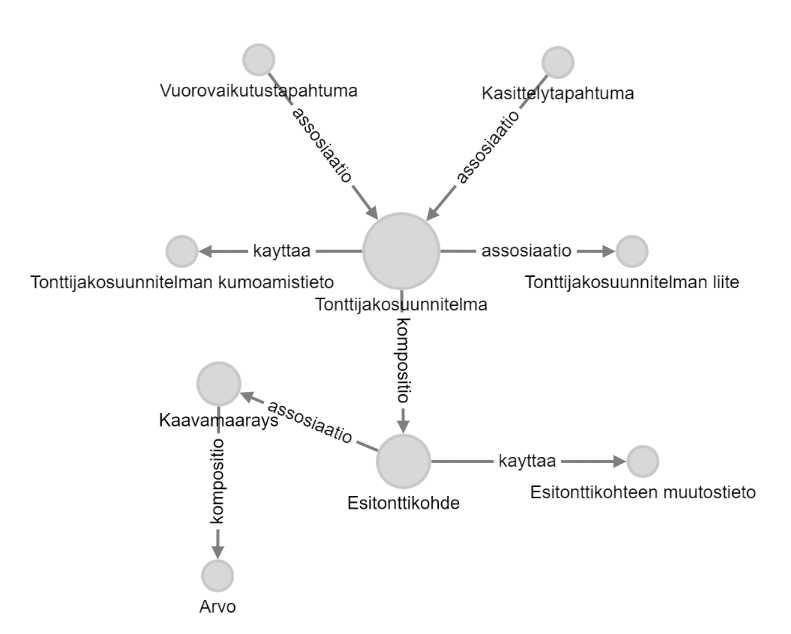
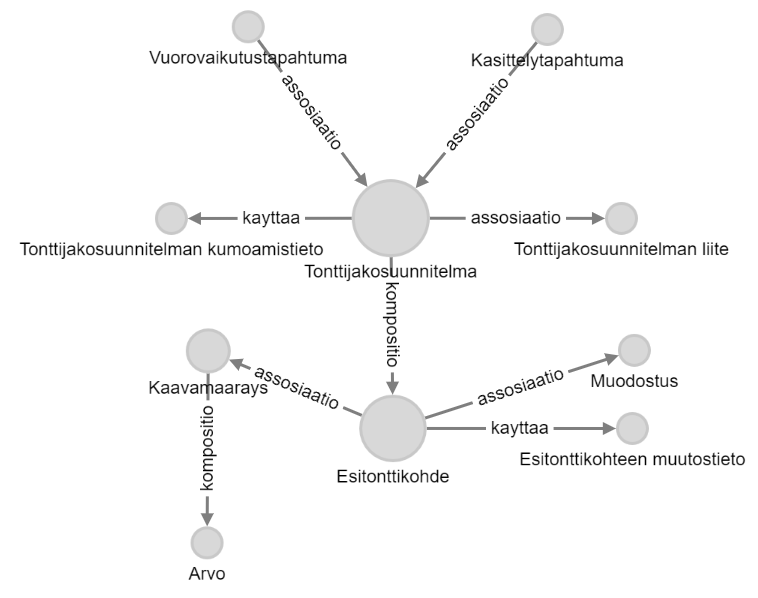
Muutoksia projektiimiin ja käsitemallin kuvan vaihto

Changed region(s): [[0.0303, 0.0, 1.0, 0.9933], [0.4248, 0.7525, 0.6069, 0.8127]]

diff --git a/docs/1.0-dev/soveltamisohjeet/index.md b/docs/1.0-dev/soveltamisohjeet/index.md
@@ -14,19 +14,10 @@ status: "Keskeneräinen"
 
 ## Johdanto
 
-Tämän dokumentin vaatimukset ja suositukset muodostavat tontinjakosuunnitelman loogisen tietomallin soveltamisprofiilin asemakaava-aineistoille. Soveltamisprofiili kuvaa ne rajoitukset ja lisävaatimukset, joita tulee noudattaa tietomallin [UML-kielisen kuvauksen](../../looginenmalli/uml/) ja sen [sanallisen dokumentaation](../../looginenmalli/dokumentaatio/) soveltamisessa tonttijakosuunnitelman tietoaineistojen kuvaamiseen.
+Tämän dokumentin vaatimukset ja suositukset muodostavat Tonttijakosuunnitelmatietomallin loogisen tietomallin soveltamisprofiilin tonttijakosuunnitelma-aineistoille. Soveltamisprofiili kuvaa ne rajoitukset ja lisävaatimukset, joita tulee noudattaa Tonttijakosuunnitelmatietomallin [UML-kielisen kuvauksen](../../looginenmalli/uml/) ja sen [sanallisen dokumentaation](../../looginenmalli/dokumentaatio/) soveltamisessa tonttijakosuunnitelmien tietoaineistojen kuvaamiseen.
 
-Tämän muodollisen dokumentin tietoja täydentää [Tonttijakosuunnitelman keittokirja](./keittokirja.html), joka sisältää käytännön esimerkkejä tietomallin soveltamisesta tonttijakosuunnitelman käsittelyyn ja läpivientiin kunnissa.
+Tämän muodollisen dokumentin tietoja täydentää [Tonttijakosuunnitelman keittokirja](./keittokirja.html), joka sisältää käytännön esimerkkejä tietomallin soveltamisesta tonttijakosuunnitelman käsittelyyn.
 
-{% include clause_start.html type="req" id="" %} <!-- id esim: prof-ak/vaat-kaavakohdelaji. Mitä type="req" tarkoittaa? -->
-*Tähän elementtiin voi kirjata vaatimuksia.*
-{% include clause_end.html %}
-
-{% include question.html content="Kysymyksen voi muodostaa tällä tavoin." %}
-
-{% include note.html content="Huomion voi osoittaa tällä tavoin." %}
-
-{% include tip.html content="Vinkin voi osoittaa tällä tavoin" %}
 
 <!-- **Koodi**: <http://uri.suomi.fi/codelist/rytj/RY_KaavamaaraysLaji_AK/code/01>  <- Tässä esimerkki, miten voidaan viitata suoraan koodiin koodistot-palvelussa. -->
 

diff --git a/docs/kehitystyo/projektitiimi.md b/docs/kehitystyo/projektitiimi.md
@@ -16,7 +16,7 @@ Ubigulta työhön osallistuivat:
 # Sidosryhmät
 
 Ympäristöministeriöstä työn ohjaukseen osallistuivat:
-- Pekka Muukalainen
-- Risto Jussinpoika
+- Anssi Hänninen
+- Jari Vaarma
 
 {% include note.html content="Kuvaillaan tänne sidosryhmät ja annetaan kiitosta sinne, minne se kuuluu" %}
